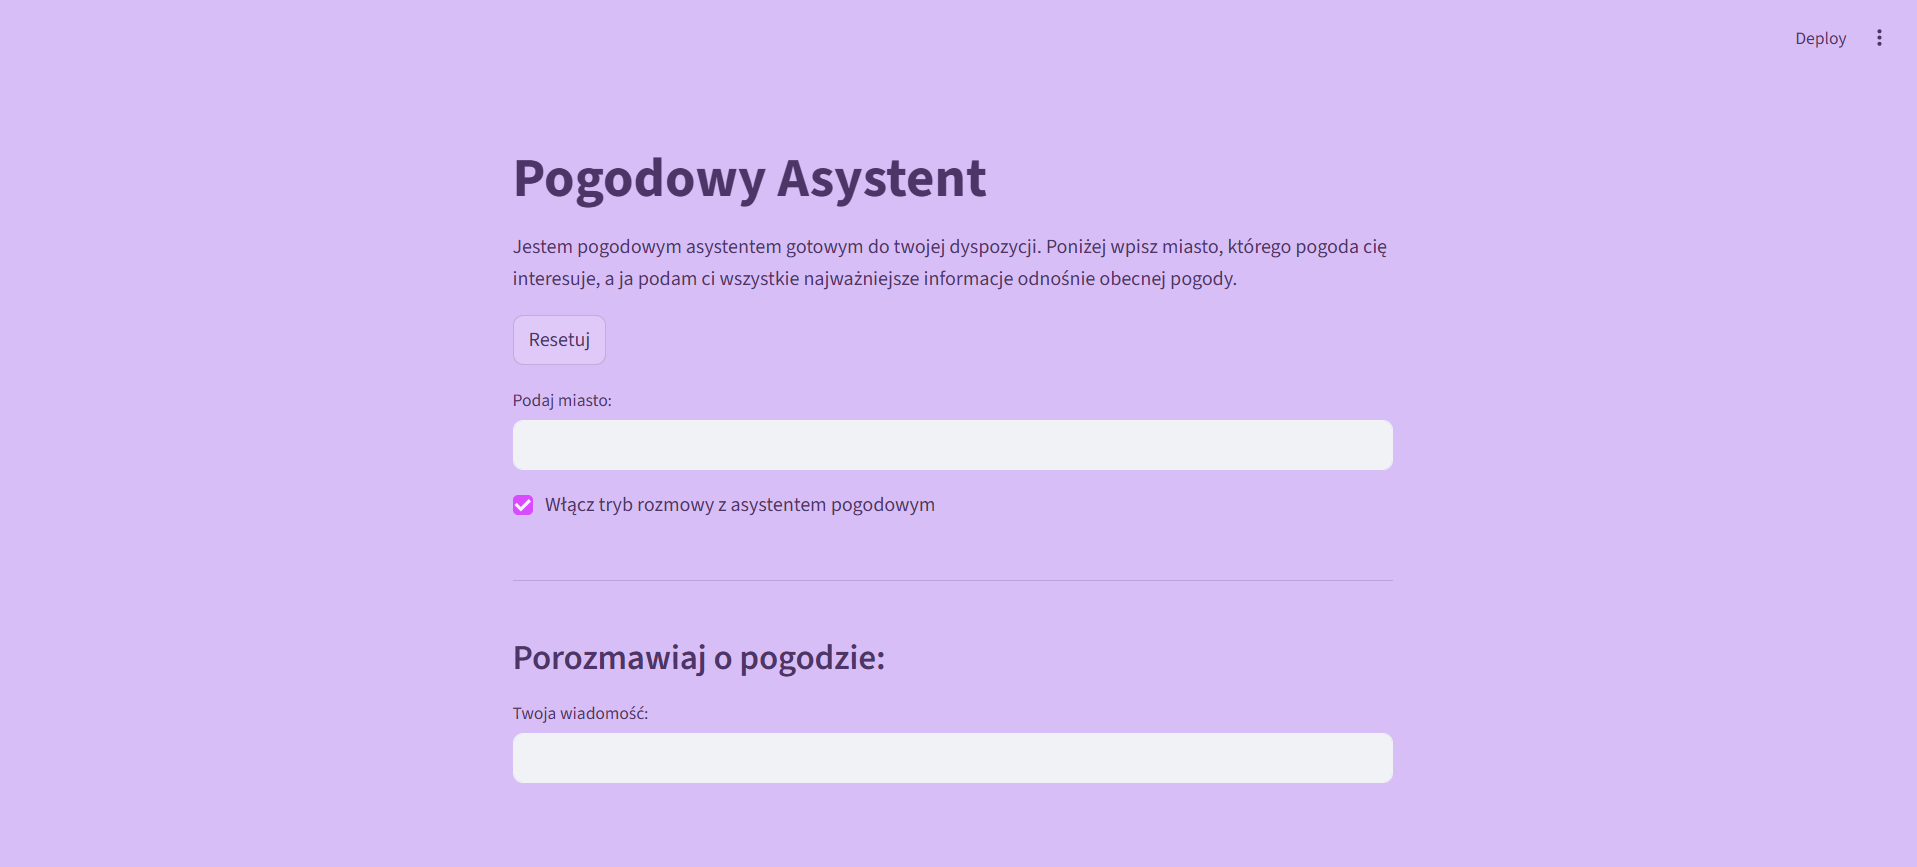
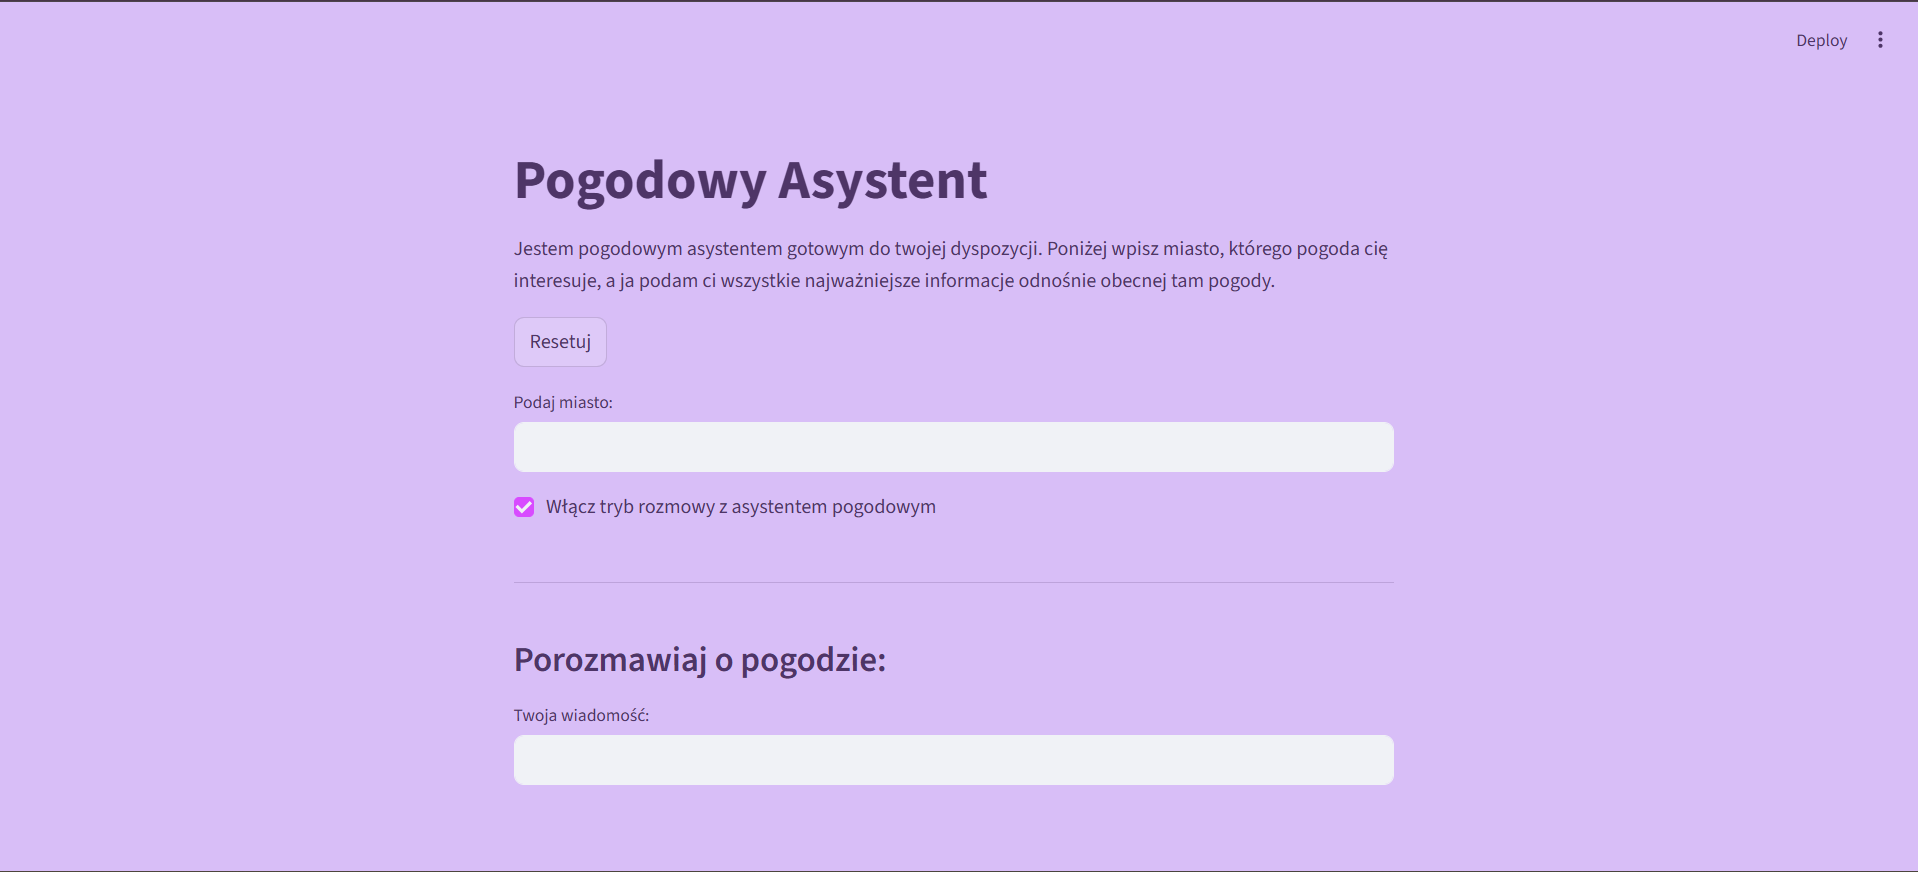
Zdjęcia

diff --git a/weather_app.py b/weather_app.py
@@ -12,7 +12,7 @@ openai.api_key = OPENAI_API_KEY
 
 st.set_page_config(page_title="Pogodowy Asystent", layout="centered")
 st.title("Pogodowy Asystent")
-st.text("Jestem pogodowym asystentem gotowym do twojej dyspozycji. Poniżej wpisz miasto, którego pogoda cię interesuje, a ja podam ci wszystkie najważniejsze informacje odnośnie obecnej pogody.")
+st.text("Jestem pogodowym asystentem gotowym do twojej dyspozycji. Poniżej wpisz miasto, którego pogoda cię interesuje, a ja podam ci wszystkie najważniejsze informacje odnośnie obecnej tam pogody.")
 
 
 if "messages" not in st.session_state:
